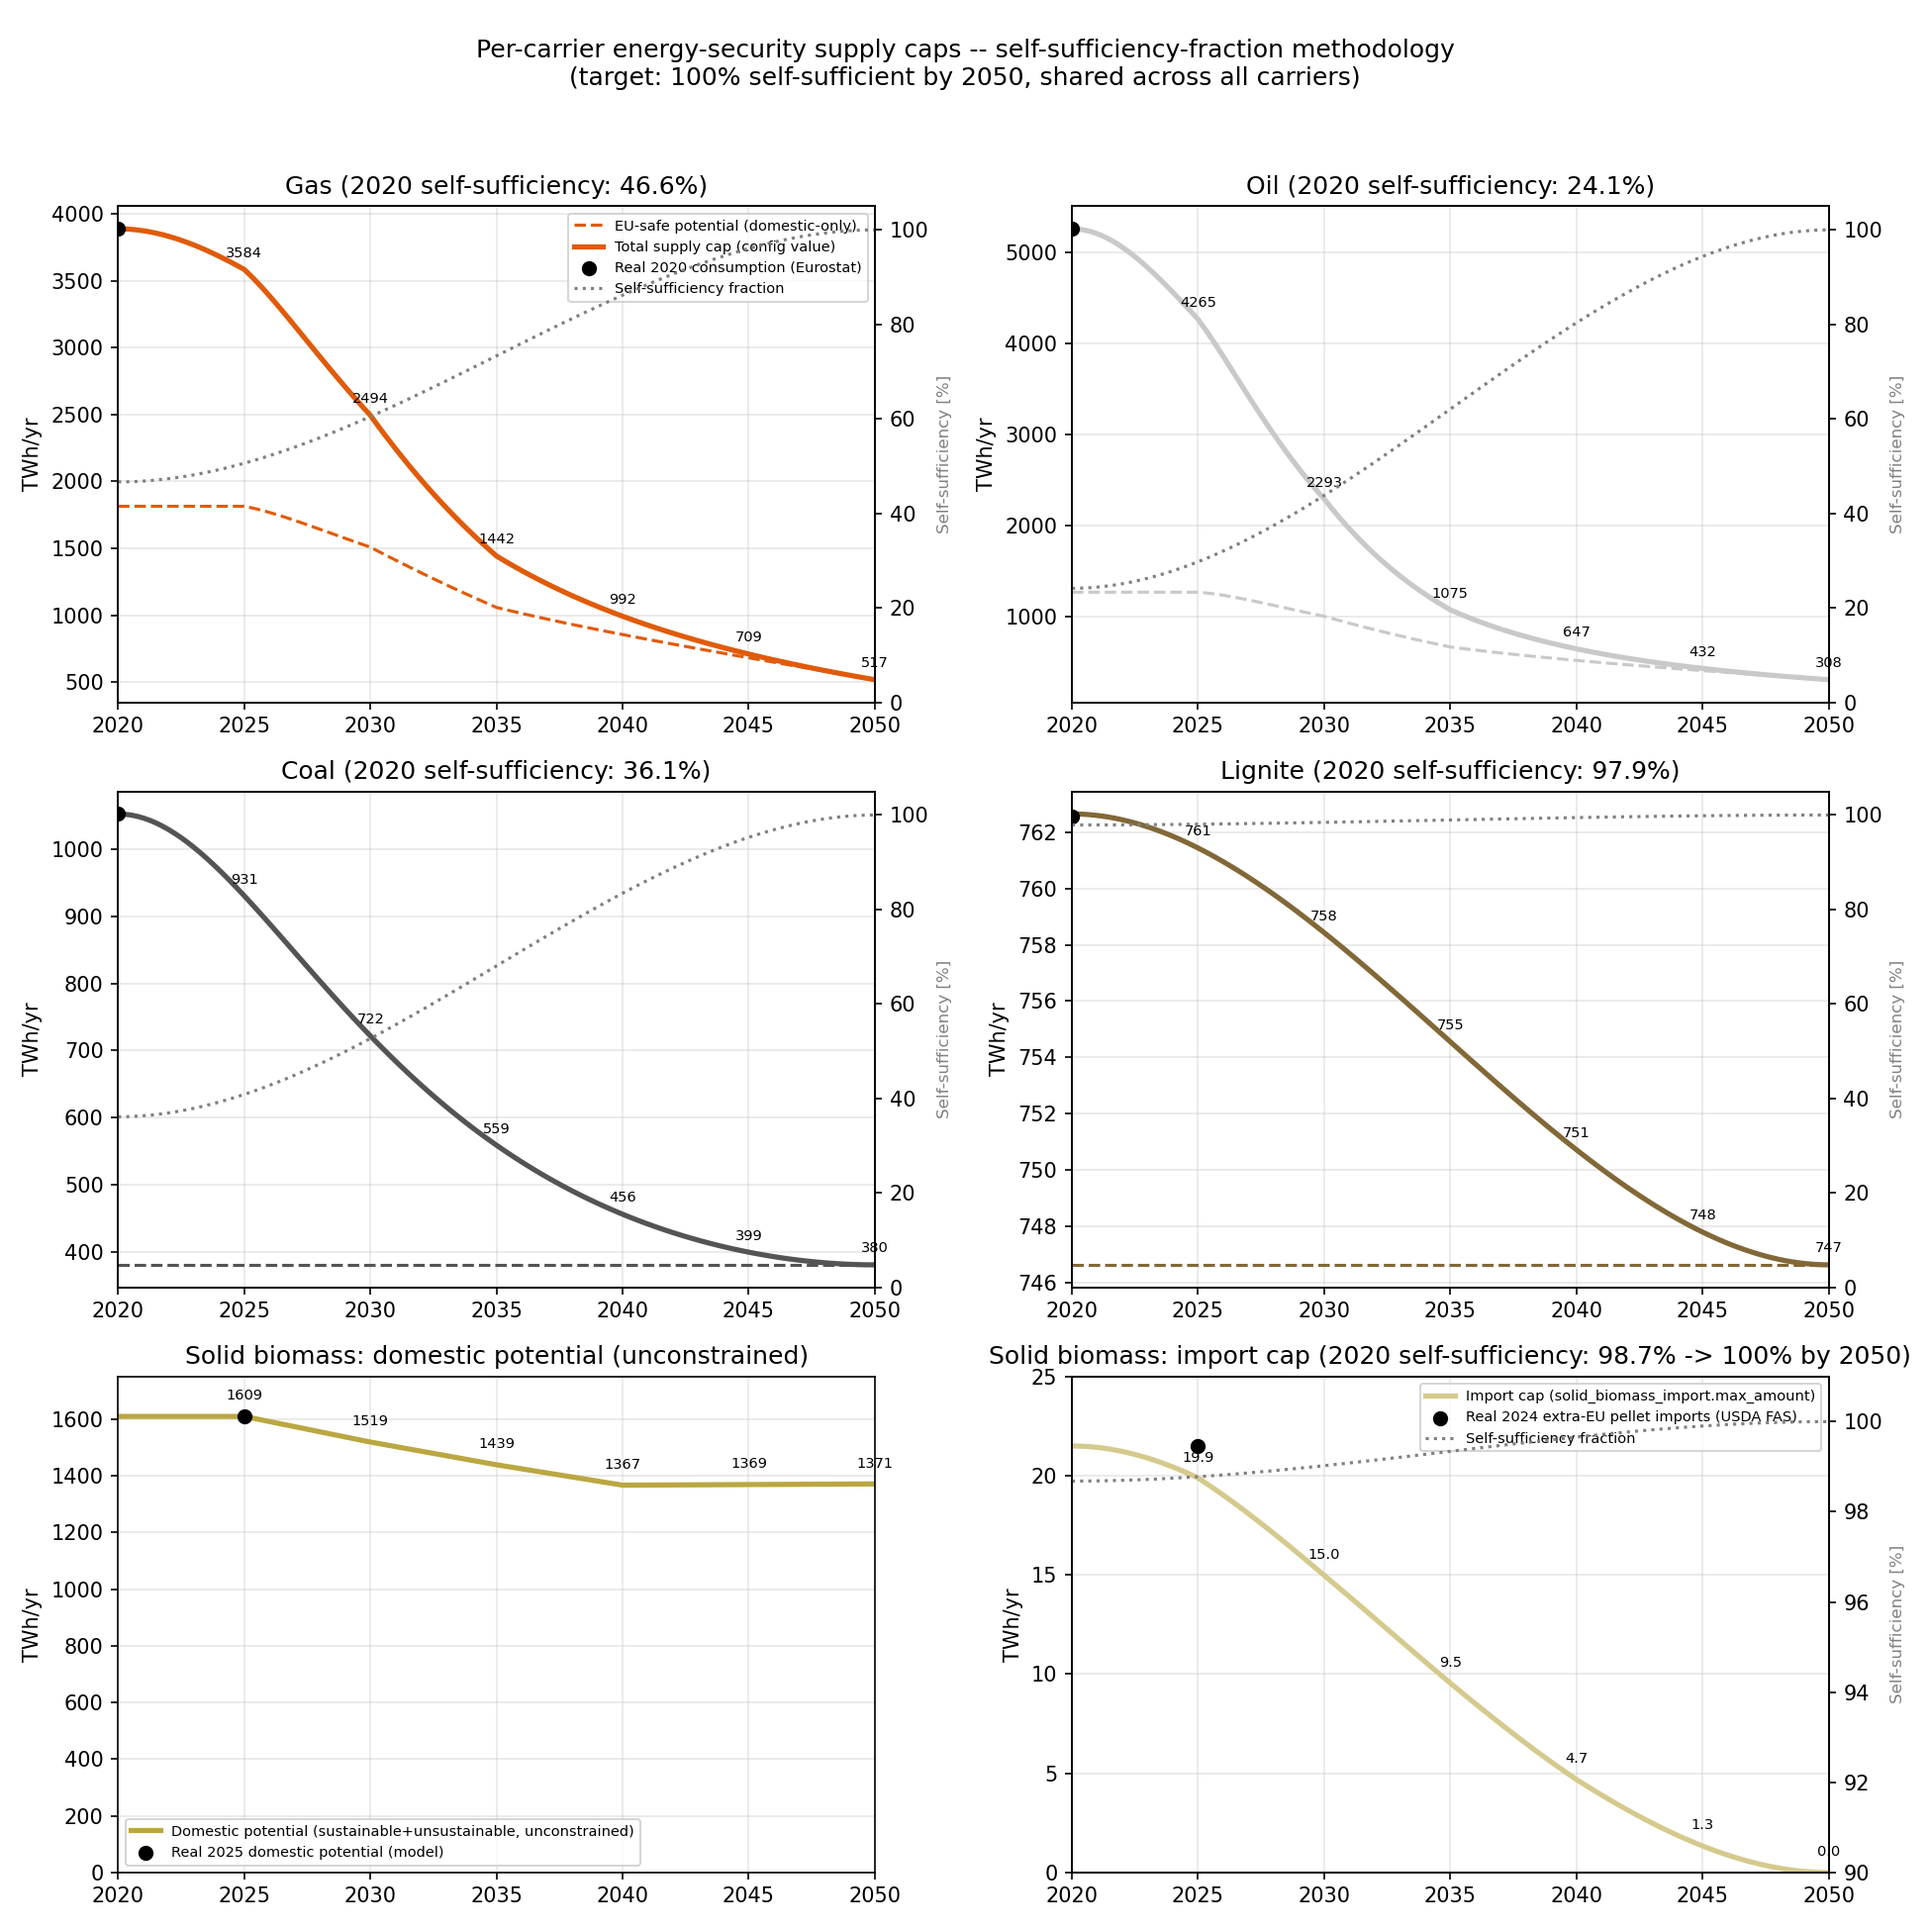
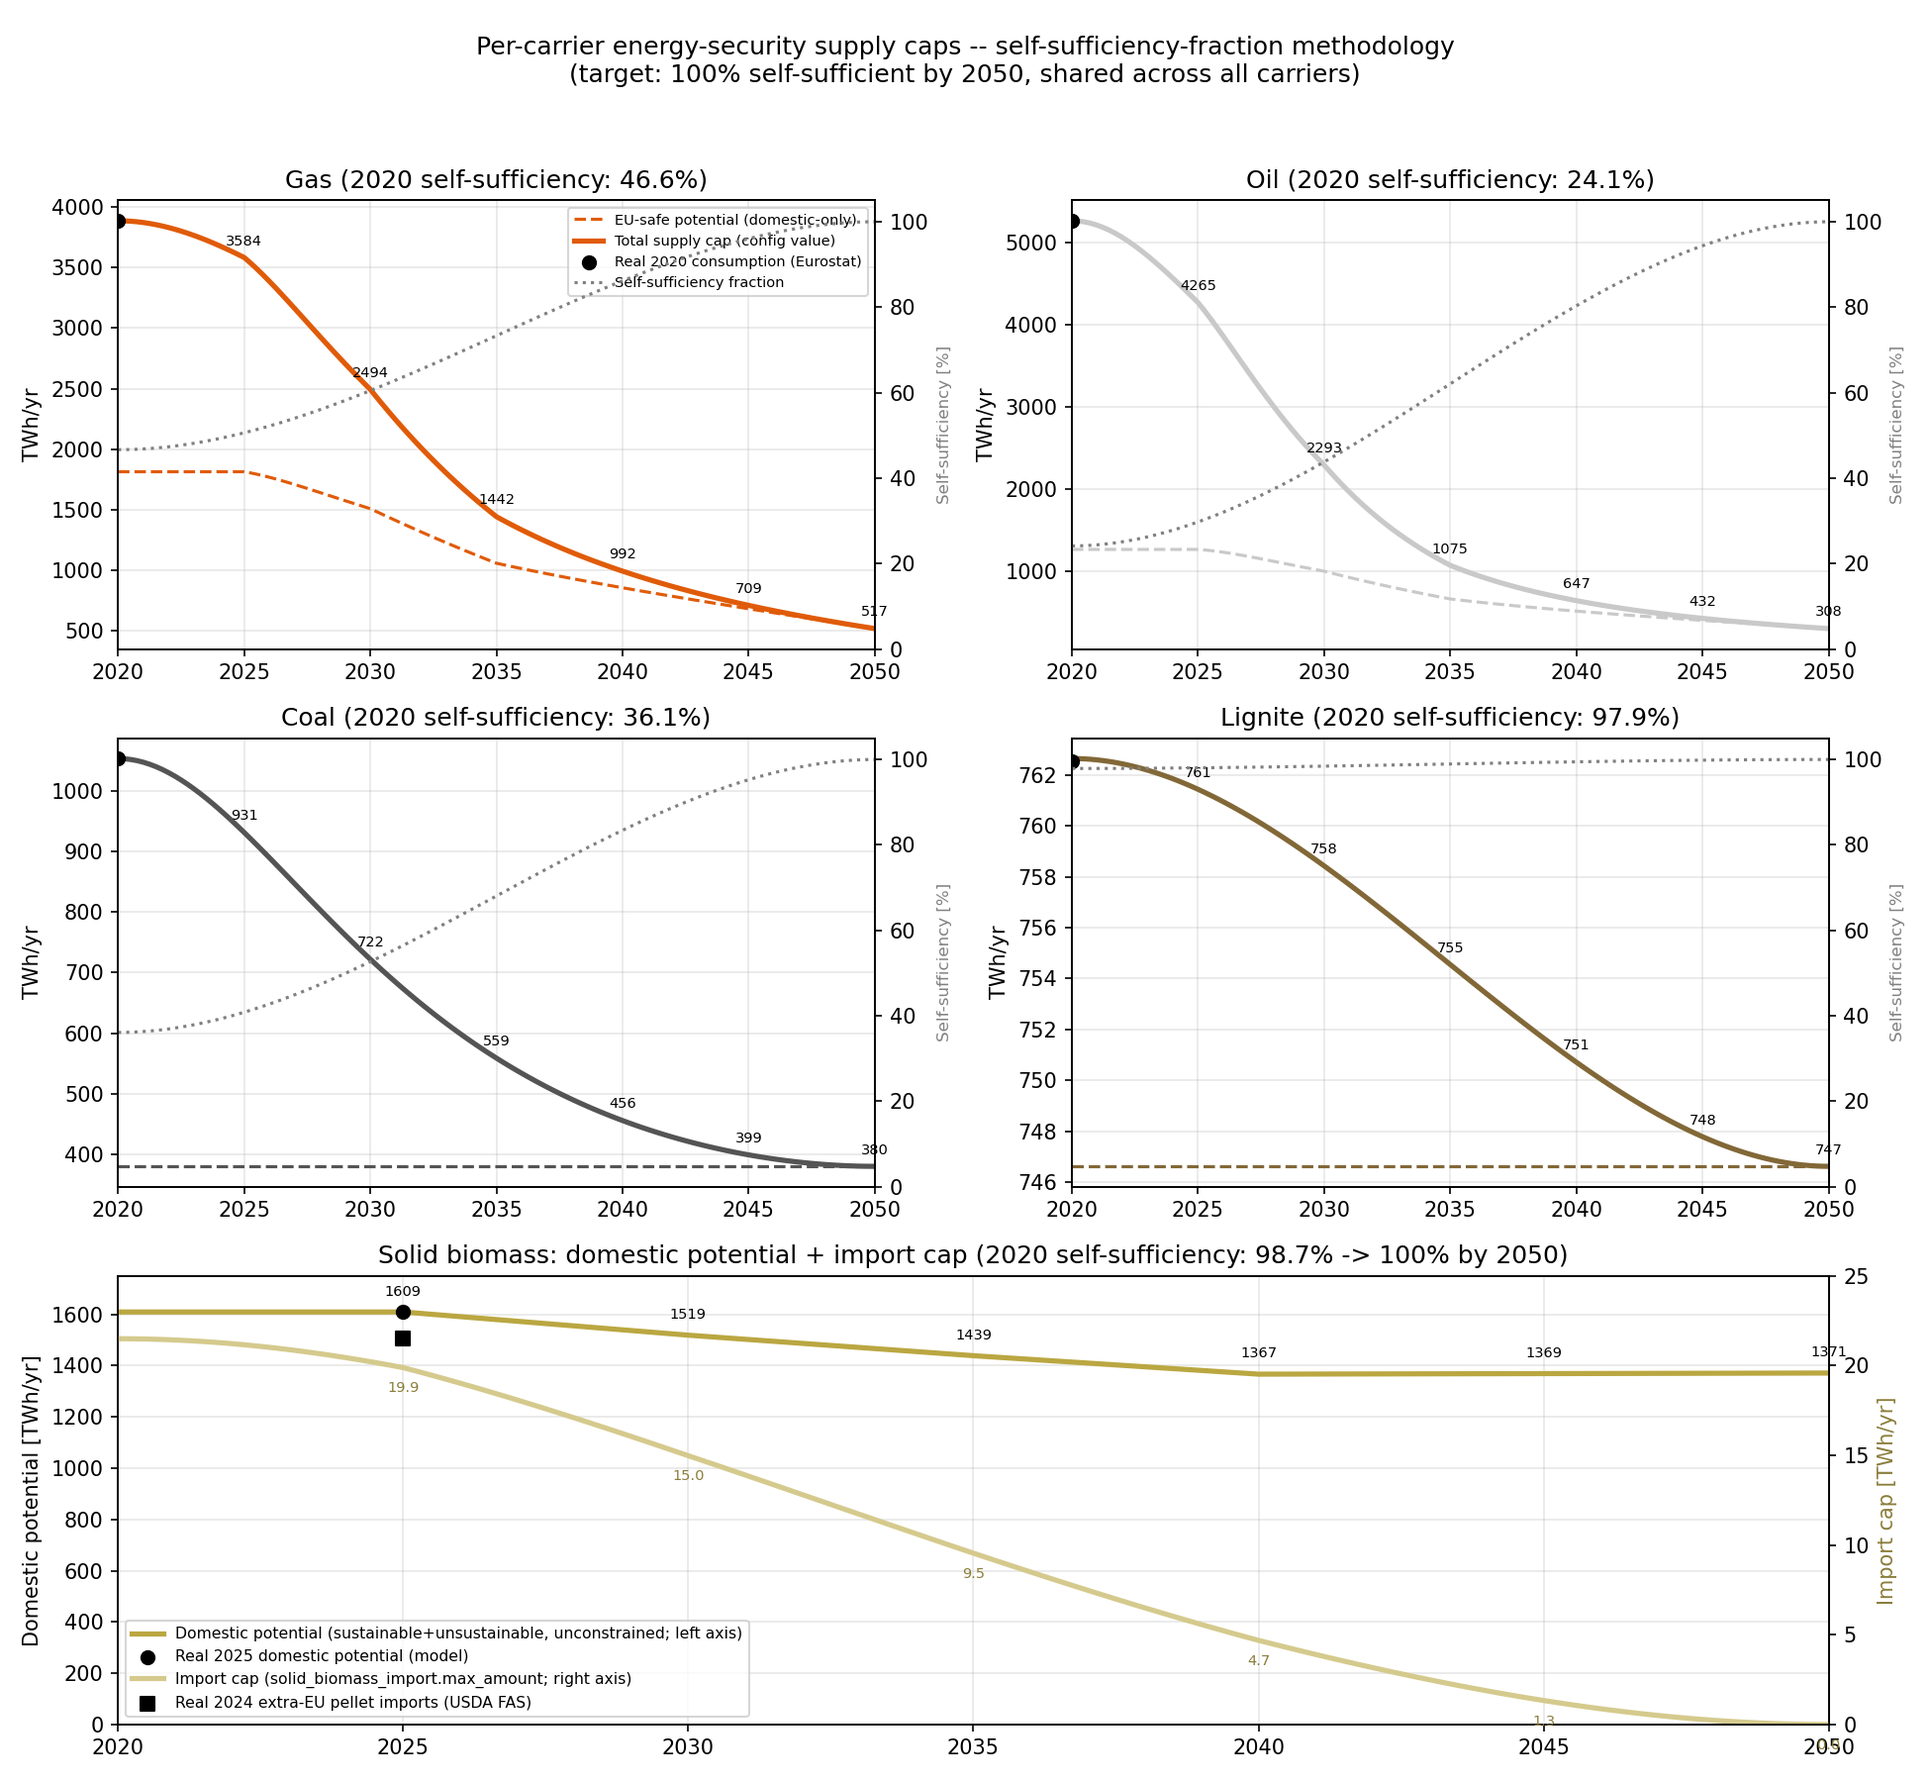
Merge biomass into one dual-axis panel, add a stacked all-carriers figure
Per your request:
- Solid biomass domestic potential + import cap now share ONE panel
  (dual y-axis: domestic on left, import cap ~80x smaller on right) instead
  of two side-by-side subplots.
- New energy_limit_per_carrier_stacked.png: gas/oil/coal/lignite total
  supply caps stacked as a bar chart (MtCO2-eq) across all 6 planning
  horizons, with the solid biomass import cap overlaid as a separate line
  on its own right-axis scale (kept separate from the stack since it's
  TWh, not directly comparable to the MtCO2-eq fossil totals).

Claude-Session: https://claude.ai/code/session_01H9Vs1MB2nKsgtVi4gJmyuH

diff --git a/text_docs/scripts/build_energy_limit_per_carrier.py b/text_docs/scripts/build_energy_limit_per_carrier.py
@@ -125,14 +125,18 @@ def biomass_import_cap(year):
 
 
 # ---------------------------------------------------------------------------
-# Single combined figure, 3x2: gas/oil, coal/lignite (EU-safe potential vs.
-# total supply cap vs. self-sufficiency fraction), then biomass domestic
-# potential / import cap (its own scale, since it dwarfs the import cap by
-# ~80x -- a shared scale would make the import cap invisible).
+# Figure 1: gas/oil/coal/lignite (2x2, top) -- EU-safe potential vs. total
+# supply cap vs. self-sufficiency fraction -- then ONE combined solid-biomass
+# panel (bottom, full width): domestic potential (left axis) and import cap
+# (right axis, since it's ~80x smaller and would be invisible on a shared
+# linear scale) plotted together in the same panel.
 FOSSIL_CARRIERS = ["gas", "oil", "coal", "lignite"]
-fig, axes = plt.subplots(3, 2, figsize=(13, 13))
+fig = plt.figure(figsize=(13, 12))
+gs = fig.add_gridspec(3, 2, height_ratios=[1, 1, 1])
+fossil_axes = [fig.add_subplot(gs[0, 0]), fig.add_subplot(gs[0, 1]),
+               fig.add_subplot(gs[1, 0]), fig.add_subplot(gs[1, 1])]
 
-for ax, carrier in zip(axes[:2].flat, FOSSIL_CARRIERS):
+for ax, carrier in zip(fossil_axes, FOSSIL_CARRIERS):
     color = TECH_COLORS.get(carrier, "tab:blue")
     safe_vals = [EU_SAFE_TWH[carrier](y) for y in years_fine]
     total_vals = [total_cap_fossil(y, carrier) for y in years_fine]
@@ -157,41 +161,40 @@ for ax, carrier in zip(axes[:2].flat, FOSSIL_CARRIERS):
         lines2, labels2 = ax2.get_legend_handles_labels()
         ax.legend(lines1 + lines2, labels1 + labels2, fontsize=7, loc="upper right")
 
-ax1, ax2 = axes[2]
+ax_bio = fig.add_subplot(gs[2, :])
 domestic_vals = [EU_SAFE_TWH["biomass"](y) for y in years_fine]
-ax1.plot(years_fine, domestic_vals, color=TECH_COLORS.get("solid biomass", "#baa741"), lw=2.5,
-          label="Domestic potential (sustainable+unsustainable, unconstrained)")
-ax1.scatter([2025], [1609.3], color="black", zorder=5, s=40, label="Real 2025 domestic potential (model)")
-for y in YEARS:
-    ax1.annotate(f"{EU_SAFE_TWH['biomass'](y):.0f}", (y, EU_SAFE_TWH["biomass"](y)),
-                 textcoords="offset points", xytext=(0, 8), fontsize=7, ha="center")
-ax1.set_title("Solid biomass: domestic potential (unconstrained)")
-ax1.set_ylabel("TWh/yr")
-ax1.set_xlim(2020, 2050)
-ax1.set_ylim(0, 1750)
-ax1.legend(fontsize=7, loc="lower left")
-ax1.grid(alpha=0.3)
-
 import_vals = [biomass_import_cap(y) for y in years_fine]
-ax2.plot(years_fine, import_vals, color=TECH_COLORS.get("solid biomass import", "#d5ca8d"), lw=2.5,
-          label="Import cap (solid_biomass_import.max_amount)")
-ax2.scatter([2025], [21.5], color="black", zorder=5, s=40, label="Real 2024 extra-EU pellet imports (USDA FAS)")
+ln1 = ax_bio.plot(years_fine, domestic_vals, color=TECH_COLORS.get("solid biomass", "#baa741"), lw=2.5,
+                    label="Domestic potential (sustainable+unsustainable, unconstrained; left axis)")
+ax_bio.scatter([2025], [1609.3], color="black", zorder=5, s=40, label="Real 2025 domestic potential (model)")
 for y in YEARS:
-    ax2.annotate(f"{biomass_import_cap(y):.1f}", (y, biomass_import_cap(y)),
-                 textcoords="offset points", xytext=(0, 8), fontsize=7, ha="center")
-ax2b = ax2.twinx()
-frac_vals = [100 * frac_curve(y, "biomass") for y in years_fine]
-ax2b.plot(years_fine, frac_vals, color="grey", ls=":", lw=1.5, label="Self-sufficiency fraction")
-ax2b.set_ylim(90, 101)
-ax2b.set_ylabel("Self-sufficiency [%]", color="grey", fontsize=8)
-ax2.set_title(f"Solid biomass: import cap (2020 self-sufficiency: {100*SHARE_2020['biomass']:.1f}% -> 100% by 2050)")
-ax2.set_ylabel("TWh/yr")
-ax2.set_xlim(2020, 2050)
-ax2.set_ylim(0, 25)
-lines1, labels1 = ax2.get_legend_handles_labels()
-lines2, labels2 = ax2b.get_legend_handles_labels()
-ax2.legend(lines1 + lines2, labels1 + labels2, fontsize=7, loc="upper right")
-ax2.grid(alpha=0.3)
+    ax_bio.annotate(f"{EU_SAFE_TWH['biomass'](y):.0f}", (y, EU_SAFE_TWH["biomass"](y)),
+                     textcoords="offset points", xytext=(0, 8), fontsize=7, ha="center")
+ax_bio.set_ylabel("Domestic potential [TWh/yr]")
+ax_bio.set_ylim(0, 1750)
+ax_bio.set_xlim(2020, 2050)
+ax_bio.grid(alpha=0.3)
+
+ax_bio2 = ax_bio.twinx()
+ln2 = ax_bio2.plot(years_fine, import_vals, color=TECH_COLORS.get("solid biomass import", "#d5ca8d"), lw=2.5,
+                     label="Import cap (solid_biomass_import.max_amount; right axis)")
+ax_bio2.scatter([2025], [21.5], color="black", marker="s", zorder=5, s=40,
+                 label="Real 2024 extra-EU pellet imports (USDA FAS)")
+for y in YEARS:
+    ax_bio2.annotate(f"{biomass_import_cap(y):.1f}", (y, biomass_import_cap(y)),
+                      textcoords="offset points", xytext=(0, -12), fontsize=7, ha="center", color="#8a7d3a")
+ax_bio2.set_ylabel("Import cap [TWh/yr]", color="#8a7d3a")
+ax_bio2.set_ylim(0, 25)
+
+ax_bio.set_title(
+    f"Solid biomass: domestic potential + import cap "
+    f"(2020 self-sufficiency: {100*SHARE_2020['biomass']:.1f}% -> 100% by 2050)"
+)
+lines = ln1 + ln2
+labels = [l.get_label() for l in lines]
+handles2, labels2 = ax_bio.get_legend_handles_labels()
+handles3, labels3 = ax_bio2.get_legend_handles_labels()
+ax_bio.legend(handles2 + handles3, labels2 + labels3, fontsize=7.5, loc="lower left")
 
 fig.suptitle(
     f"Per-carrier energy-security supply caps -- self-sufficiency-fraction methodology\n"
@@ -202,6 +205,49 @@ fig.tight_layout(rect=(0, 0, 1, 0.96))
 fig.savefig(f"{out_dir}/energy_limit_per_carrier.png", dpi=150)
 plt.close(fig)
 print(f"Saved {out_dir}/energy_limit_per_carrier.png")
+
+# ---------------------------------------------------------------------------
+# Figure 2: all carriers stacked -- the combined "total energy-security-
+# capped supply" picture, gas+oil+coal+lignite total caps (MtCO2-eq, primary
+# axis) plus the biomass import cap (TWh, not CO2-comparable -- shown as a
+# separate thin line on its own small-scale right axis rather than stacked
+# into the same CO2 total, to avoid mixing energy and emissions units).
+fig, ax = plt.subplots(figsize=(11, 6.5))
+stack_vals = {c: [total_cap_fossil(y, c) * INTENSITY_TCO2_MWH[c] for y in YEARS] for c in FOSSIL_CARRIERS}
+bottoms = np.zeros(len(YEARS))
+for c in FOSSIL_CARRIERS:
+    vals = np.array(stack_vals[c])
+    ax.bar(YEARS, vals, bottom=bottoms, width=3, label=f"{c.capitalize()} (MtCO2-eq)",
+           color=TECH_COLORS.get(c, "tab:blue"))
+    for i, y in enumerate(YEARS):
+        if vals[i] > 30:
+            ax.text(y, bottoms[i] + vals[i] / 2, f"{vals[i]:.0f}", ha="center", va="center", fontsize=7)
+    bottoms += vals
+for i, y in enumerate(YEARS):
+    ax.text(y, bottoms[i] + 20, f"{bottoms[i]:.0f}", ha="center", fontsize=8, fontweight="bold")
+ax.set_ylabel("Total per-carrier supply cap [MtCO2-eq/yr]")
+ax.set_xlabel("Year")
+ax.set_xlim(2022, 2053)
+ax.set_title(
+    f"All carriers, stacked -- energy_limit_per_carrier resolved values\n"
+    f"(target: {100*TARGET_SELF_SUFFICIENCY_2050:.0f}% self-sufficient by 2050; "
+    f"biomass import cap shown separately, right axis, since it's TWh not MtCO2-eq)"
+)
+
+ax2 = ax.twinx()
+import_vals_years = [biomass_import_cap(y) for y in YEARS]
+ax2.plot(YEARS, import_vals_years, color=TECH_COLORS.get("solid biomass import", "#d5ca8d"),
+          marker="o", lw=2, label="Solid biomass import cap (TWh)")
+ax2.set_ylabel("Solid biomass import cap [TWh/yr]", color="#8a7d3a")
+ax2.set_ylim(0, 25)
+
+lines1, labels1 = ax.get_legend_handles_labels()
+lines2, labels2 = ax2.get_legend_handles_labels()
+ax.legend(lines1 + lines2, labels1 + labels2, fontsize=8, loc="upper right")
+fig.tight_layout()
+fig.savefig(f"{out_dir}/energy_limit_per_carrier_stacked.png", dpi=150)
+plt.close(fig)
+print(f"Saved {out_dir}/energy_limit_per_carrier_stacked.png")
 
 # ---------------------------------------------------------------------------
 print("\n=== Resolved config values (cross-check against config.default.yaml) ===")
